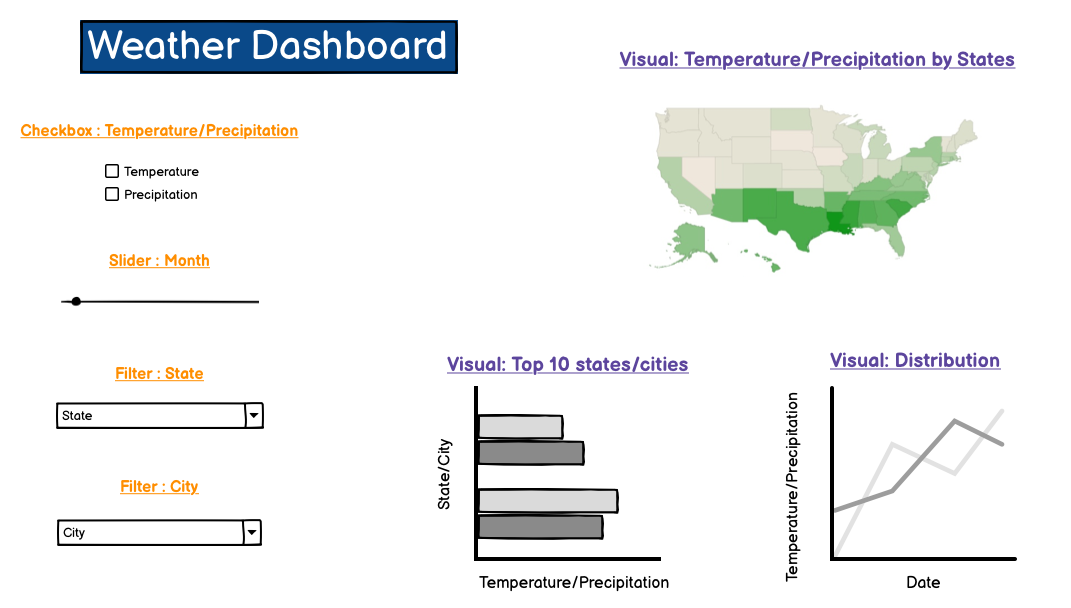
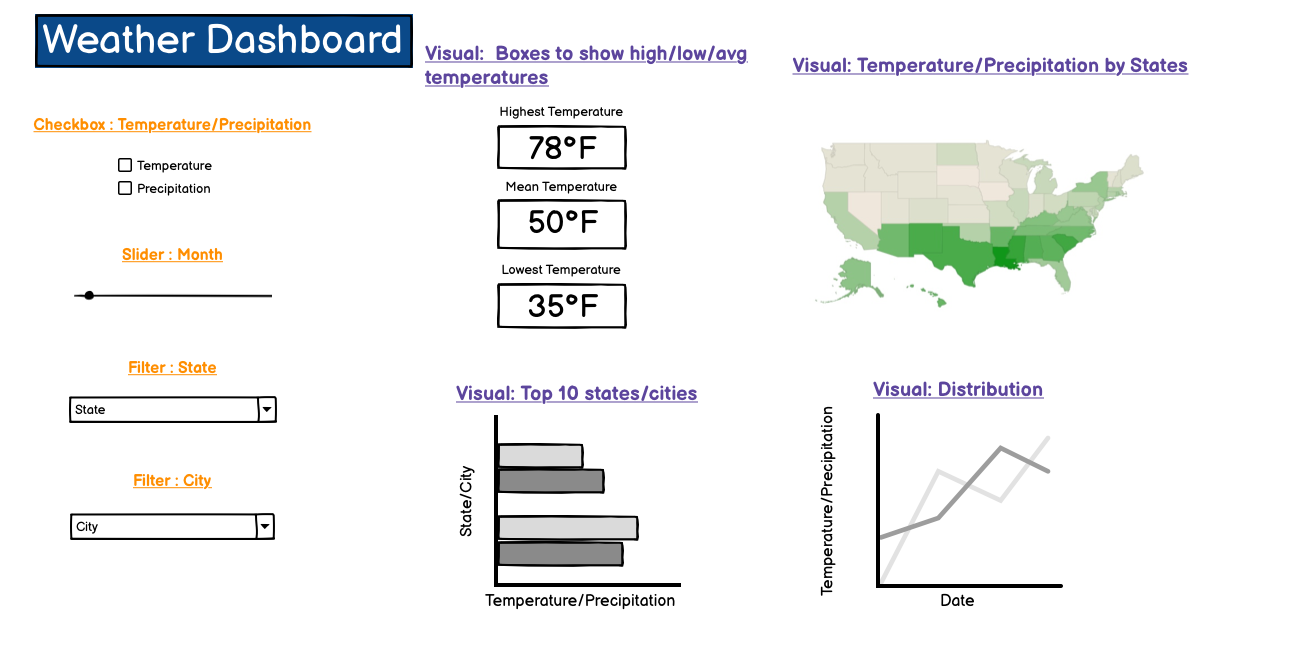
edit sketch, add research question to proposal

diff --git a/reports/proposal.md b/reports/proposal.md
@@ -1,6 +1,6 @@
 # Proposal
 
-## Motivation and Purpose
+## Section 1: Motivation and Purpose
 
 Our role: Data scientist consultancy firm
 
@@ -8,12 +8,15 @@ Target audience: Weather-savvy travel enthusiasts who would like to have a fun-f
 
 Travel enthusiasts who dream about having unforgettable experiences are usually worried about getting caught in unexpected weather conditions like heat waves or heavy downpours. It can be a daunting experience, especially for those who are planning international trips, if they are not well prepared in terms of clothing and travel gear to accommodate the unpredictable weather. Since unexpected weather could make or break a trip, our proposed dashboard would be a reliable tool that can help millions of people all over the world who love traveling to embark on memorable adventures to the US by providing them with weather information. The proposed dashboard is a one-stop shop for finding relevant information like temperature and precipitation levels across different areas in the United States, which can also be filtered based on city, state, and month. The dashboard will also showcase insightful heat map visualization for different states in the US, which can let the user know which state/city has high temperatures and which ones have low temperatures on average. There will be a provision to check the highest, lowest, and average temperatures in each area based on city and month. All in all, we aim to enable travelers to take informed decisions on which areas to visit and plan activities accordingly for their trip and make the most of their trip to the US without having weather-related surprises.
 
-## Description of the data
+## Section 2: Description of the data
 
 **TBC**
  
 
-## Research questions and usage scenarios
+## Section 3: Research questions and usage scenarios
+
+Our project answers the broad research question of: “How do temperature and precipitation levels vary across different regions of the United States during different months of the
+year?”. Below we have provided a usage scenario of our product by a member of our target audience:
 
 Jack is a travel enthusiast who loves exploring new places and experiencing different climates. As someone who's always on the go, Jack wants to be prepared for whatever weather
 conditions he may encounter on his travels. That's where our proposed dashboard comes in.
@@ -27,7 +30,8 @@ may be particularly hot or rainy, allowing him to adjust his itinerary according
 
 But what if Jack wants to dive deeper into the data and understand the temperature and precipitation trends of specific states or cities? The line plot feature with the
 dashboard's filtering options allows him to do just that. By selecting a state or city and a specific month, Jack can see how temperature and precipitation levels have changed
-over time, giving him a better understanding of what to expect during his travels.
+over time. He can also view summary statistics such as highest, lowest, and average temperatures of various cities from the boxes ,giving him a better understanding of what to
+expect during his travels.
 
 Overall, our proposed dashboard provides Jack with the information he needs to plan his trips effectively and be prepared for any weather conditions he may encounter. It's an
 invaluable tool for any traveler who wants to make the most out of their adventures while staying safe and comfortable.

diff --git a/README.md b/README.md
@@ -6,17 +6,17 @@ Citytemp dashboard is designed to assist travel enthusiasts in understanding wea
 
 Our proposed dashboard is designed to present a visual analysis of observed temperature and precipitation data from the [weather_forcasts.csv](https://github.com/rfordatascience/tidytuesday/blob/master/data/2022/2022-12-20/weather_forecasts.csv) in tidytuesday. Specifically, our dashboard is focused on displaying a visual analysis of the two key variables: observed temperature and observed precipitation that are contained within the dataset. The visualizations that we will include are:
 
-    1. A map that shows the temperature or precipitation by state. The states will be coloured as a diverging colour palette to identify countries with low, medium, and high levels.
-    2. A bar chart that shows the top 10 states/cities with the highest temperature/precipitation.
-    3. A line plot that shows the distribution of temperature/precipitation of a certain states/cities.
-    4. Boxes showing summary statistics such as highest, lowest and average temperatures of various states/cities.
+1. A map that shows the temperature or precipitation by state. The states will be coloured as a diverging colour palette to identify countries with low, medium, and high levels.
+2. A bar chart that shows the top 10 states/cities with the highest temperature/precipitation.
+3. A line plot that shows the distribution of temperature/precipitation of a certain states/cities.
+4. Boxes showing summary statistics such as highest, lowest and average temperatures of various states/cities.
 
 In addition, our dashboard will offer various filtering options to customize the displayed visualizations and enable the user to manipulate the data as desired.
 
-    1. A checkbox that allows users to choose to view either temperature or precipitation data.
-    2. A slider that allows users to select a single month to visualize.
-    3. A filter that allows users to select a state to visualize.
-    4. A filter that allows users to select a city to visualize, if desired.
+1. A checkbox that allows users to choose to view either temperature or precipitation data.
+2. A slider that allows users to select a single month to visualize.
+3. A filter that allows users to select a state to visualize.
+4. A filter that allows users to select a city to visualize, if desired.
 
 These options will allow users to identify trends in temperature/precipitation over time in the desired state or city, making it easier to observe how temperature/precipitation and related visualizations have changed across different regions in the United States.
 
